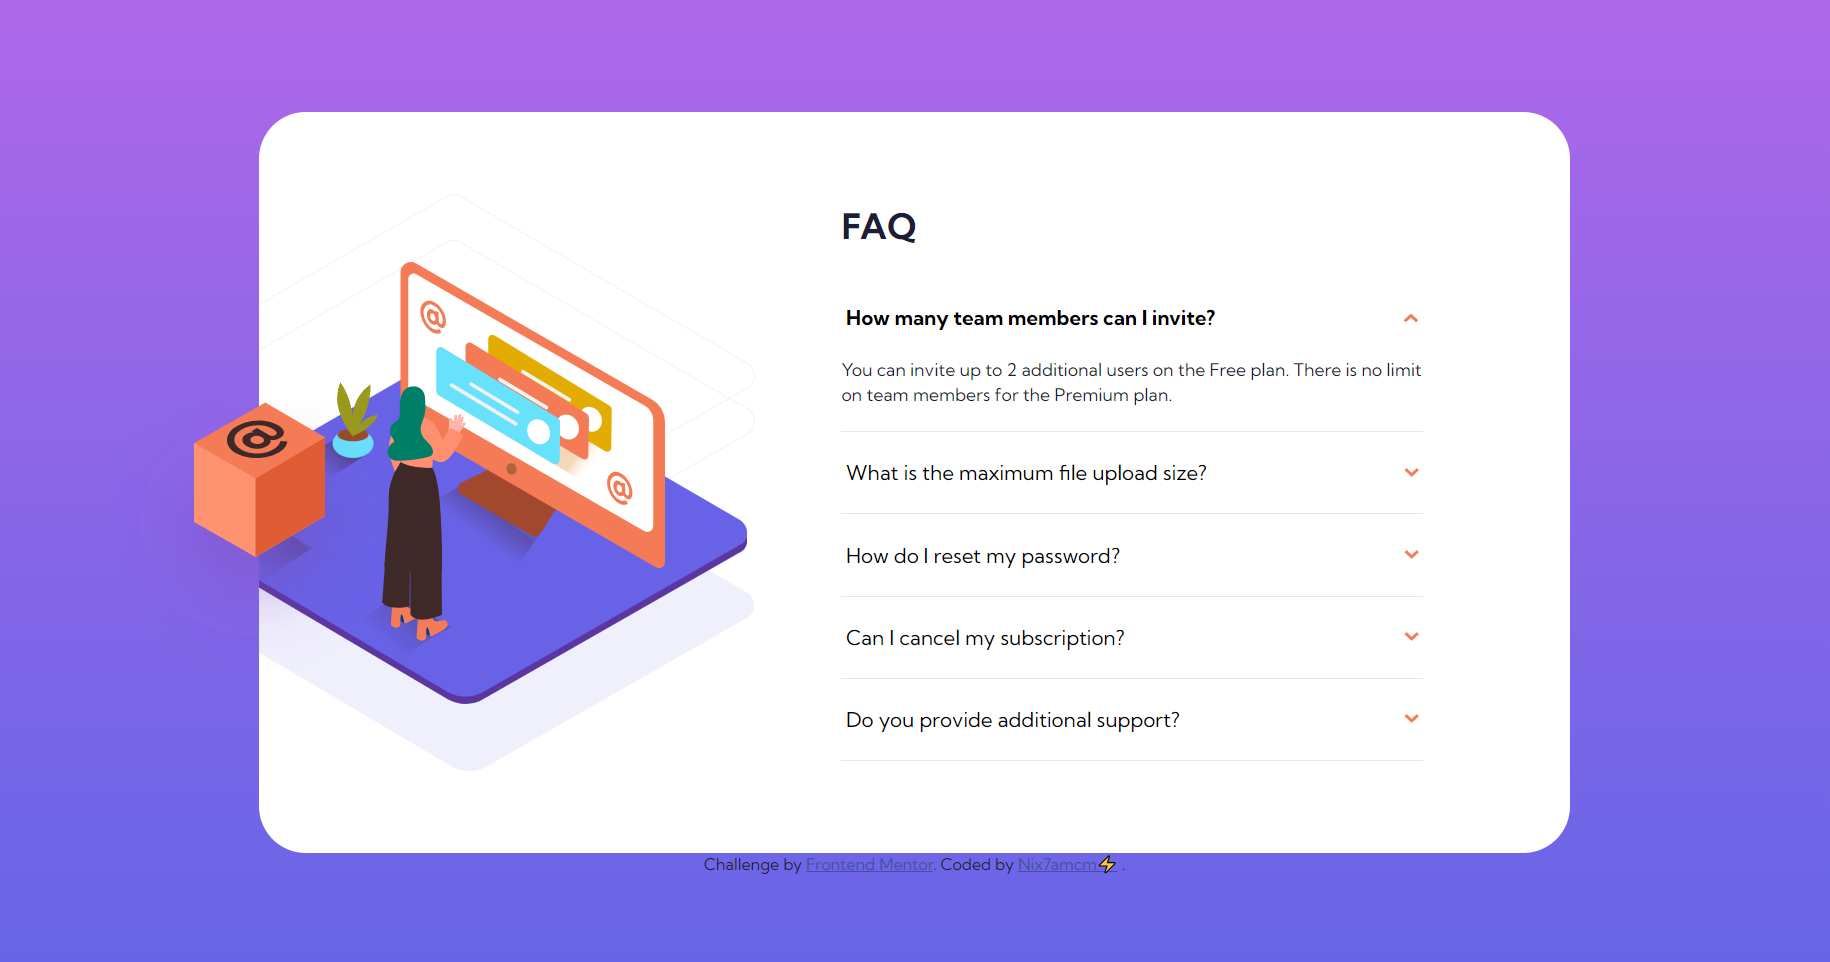
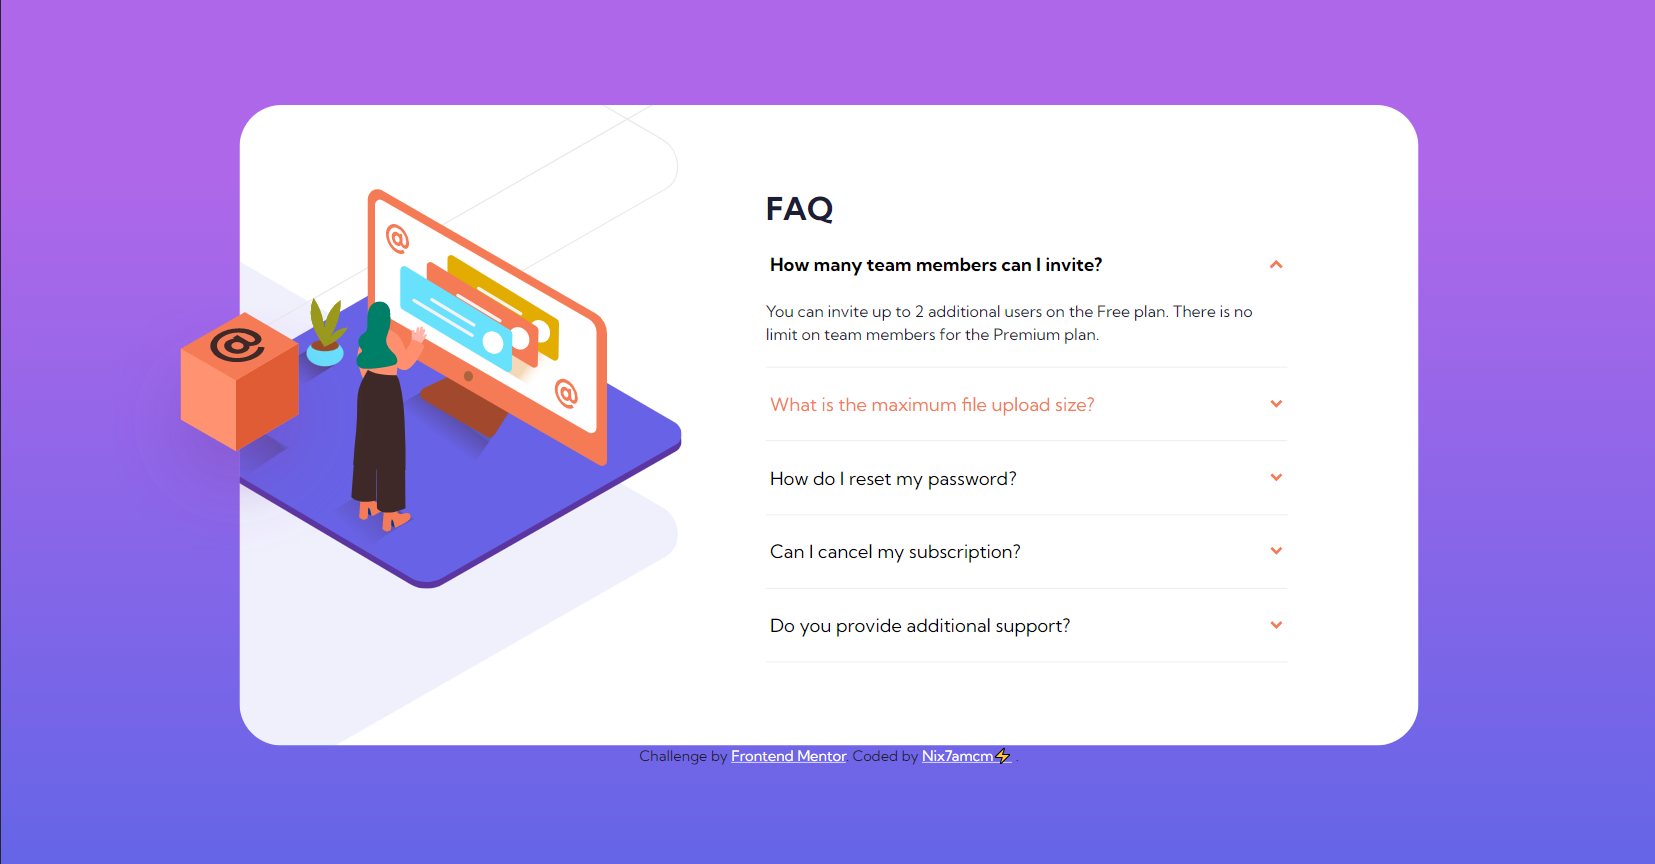
README.md, html & style update
- fixed alt for images
- modified bg linear-gradient

diff --git a/index.html b/index.html
@@ -36,7 +36,7 @@
           <div class="card__box__wrap">
             <img
               src="images/illustration-box-desktop.svg"
-              alt="card box"
+              alt="orange box with an '@' on it, sitting on top of the next illustration"
               class="card__box"
             >
           </div>
@@ -44,7 +44,7 @@
           <div class="card__image">
             <img
               src="images/illustration-woman-online-desktop.svg"
-              alt="woman online desktop"
+              alt="illustration of a woman standing in front and waving to a life-sized pc monitor"
               class="img__desktop"
             >
           </div>

diff --git a/style.css b/style.css
@@ -20,7 +20,7 @@ body {
   padding: 10rem 1rem;
   font-family: 'Kumbh Sans', sans-serif;
   color: var(--text-blue);
-  background-image: linear-gradient(180deg, var(--gradient-violet) 55%,
+  background-image: linear-gradient(180deg, var(--gradient-violet) 20%,
       var(--gradient-blue) 100%);
 }
 

diff --git a/README.md b/README.md
@@ -18,7 +18,7 @@ This is my solution to the [FAQ accordion card challenge on Frontend Mentor](htt
 
 ⚡ This challenge was to build a responsive FAQ card, using HTML and CSS, with accordion interactivity applied to make the questions drop down on click, using JS.
 
-🚀 I built this while following [@TheCoderCoder](https://www.youtube.com/channel/UCzNf0liwUzMN6_pixbQlMhQ)'s free live code video on YouTube. Check it out here: [Part 1](https://www.youtube.com/watch?v=FboXxLxg8eo), [Part 2](https://www.youtube.com/watch?v=sr94O6Y5NEA).
+🚀 I built this while following [@TheCoderCoder](https://www.youtube.com/channel/UCzNf0liwUzMN6_pixbQlMhQ)'s free live code video on YouTube. Check it out here: [Part 1](https://www.youtube.com/watch?v=FboXxLxg8eo), [Part 2](https://www.youtube.com/watch?v=sr94O6Y5NEA). I noticed some differences afterwards between what was completed in the video and the design images, so I made some modifications, as well as fixed some accessibility issues. This gave me great practice! 
 
 
 ## Screenshots
